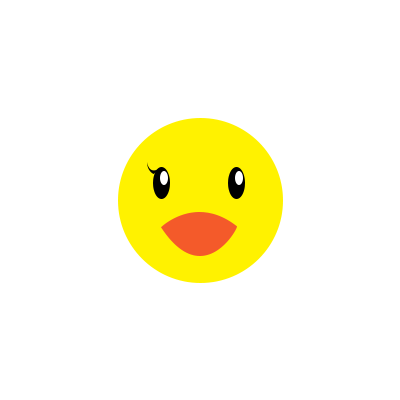
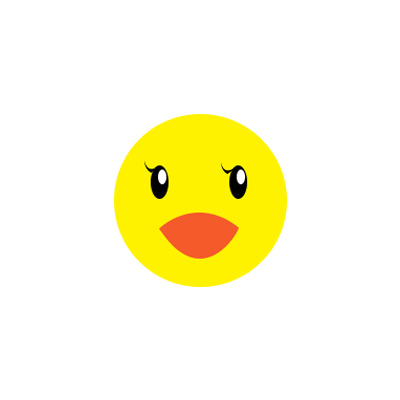
image adjustment

diff --git a/animation.html b/animation.html
@@ -19,15 +19,19 @@
 
 
 }
-
+      #face {
+      	background-size: 
+      	scale:;
+      }
     
       #sunflower	{
 	     background: url(sunflower1.png) 0 0 no-repeat; 
-	     position: absolute; 
+	     position: absolute;
 	     top: 0px; 
 	     left: 0px; 
 	     width: 400px; 
 	     height: 400px;
+
 
      
 	  
@@ -36,6 +40,7 @@
 	     animation-iteration-count: infinite; 
 	     animation-timing-function: linear;
          }
+
 
 
 
@@ -55,7 +60,7 @@
 	  <body>
 	  	
 	  	<div id="imageholder">
-	  	<div id="face"><img src="image/face.png" Sytle="position:absolute;  z-index:2;"></div>
+	  	<div id="face"><img src="image/face.png" Sytle="position:absolute scale:1.05;  z-index:2;"></div>
 	  	<div id="sunflower"><img src="image/sunflower2.png"></div>
 
 	  		
